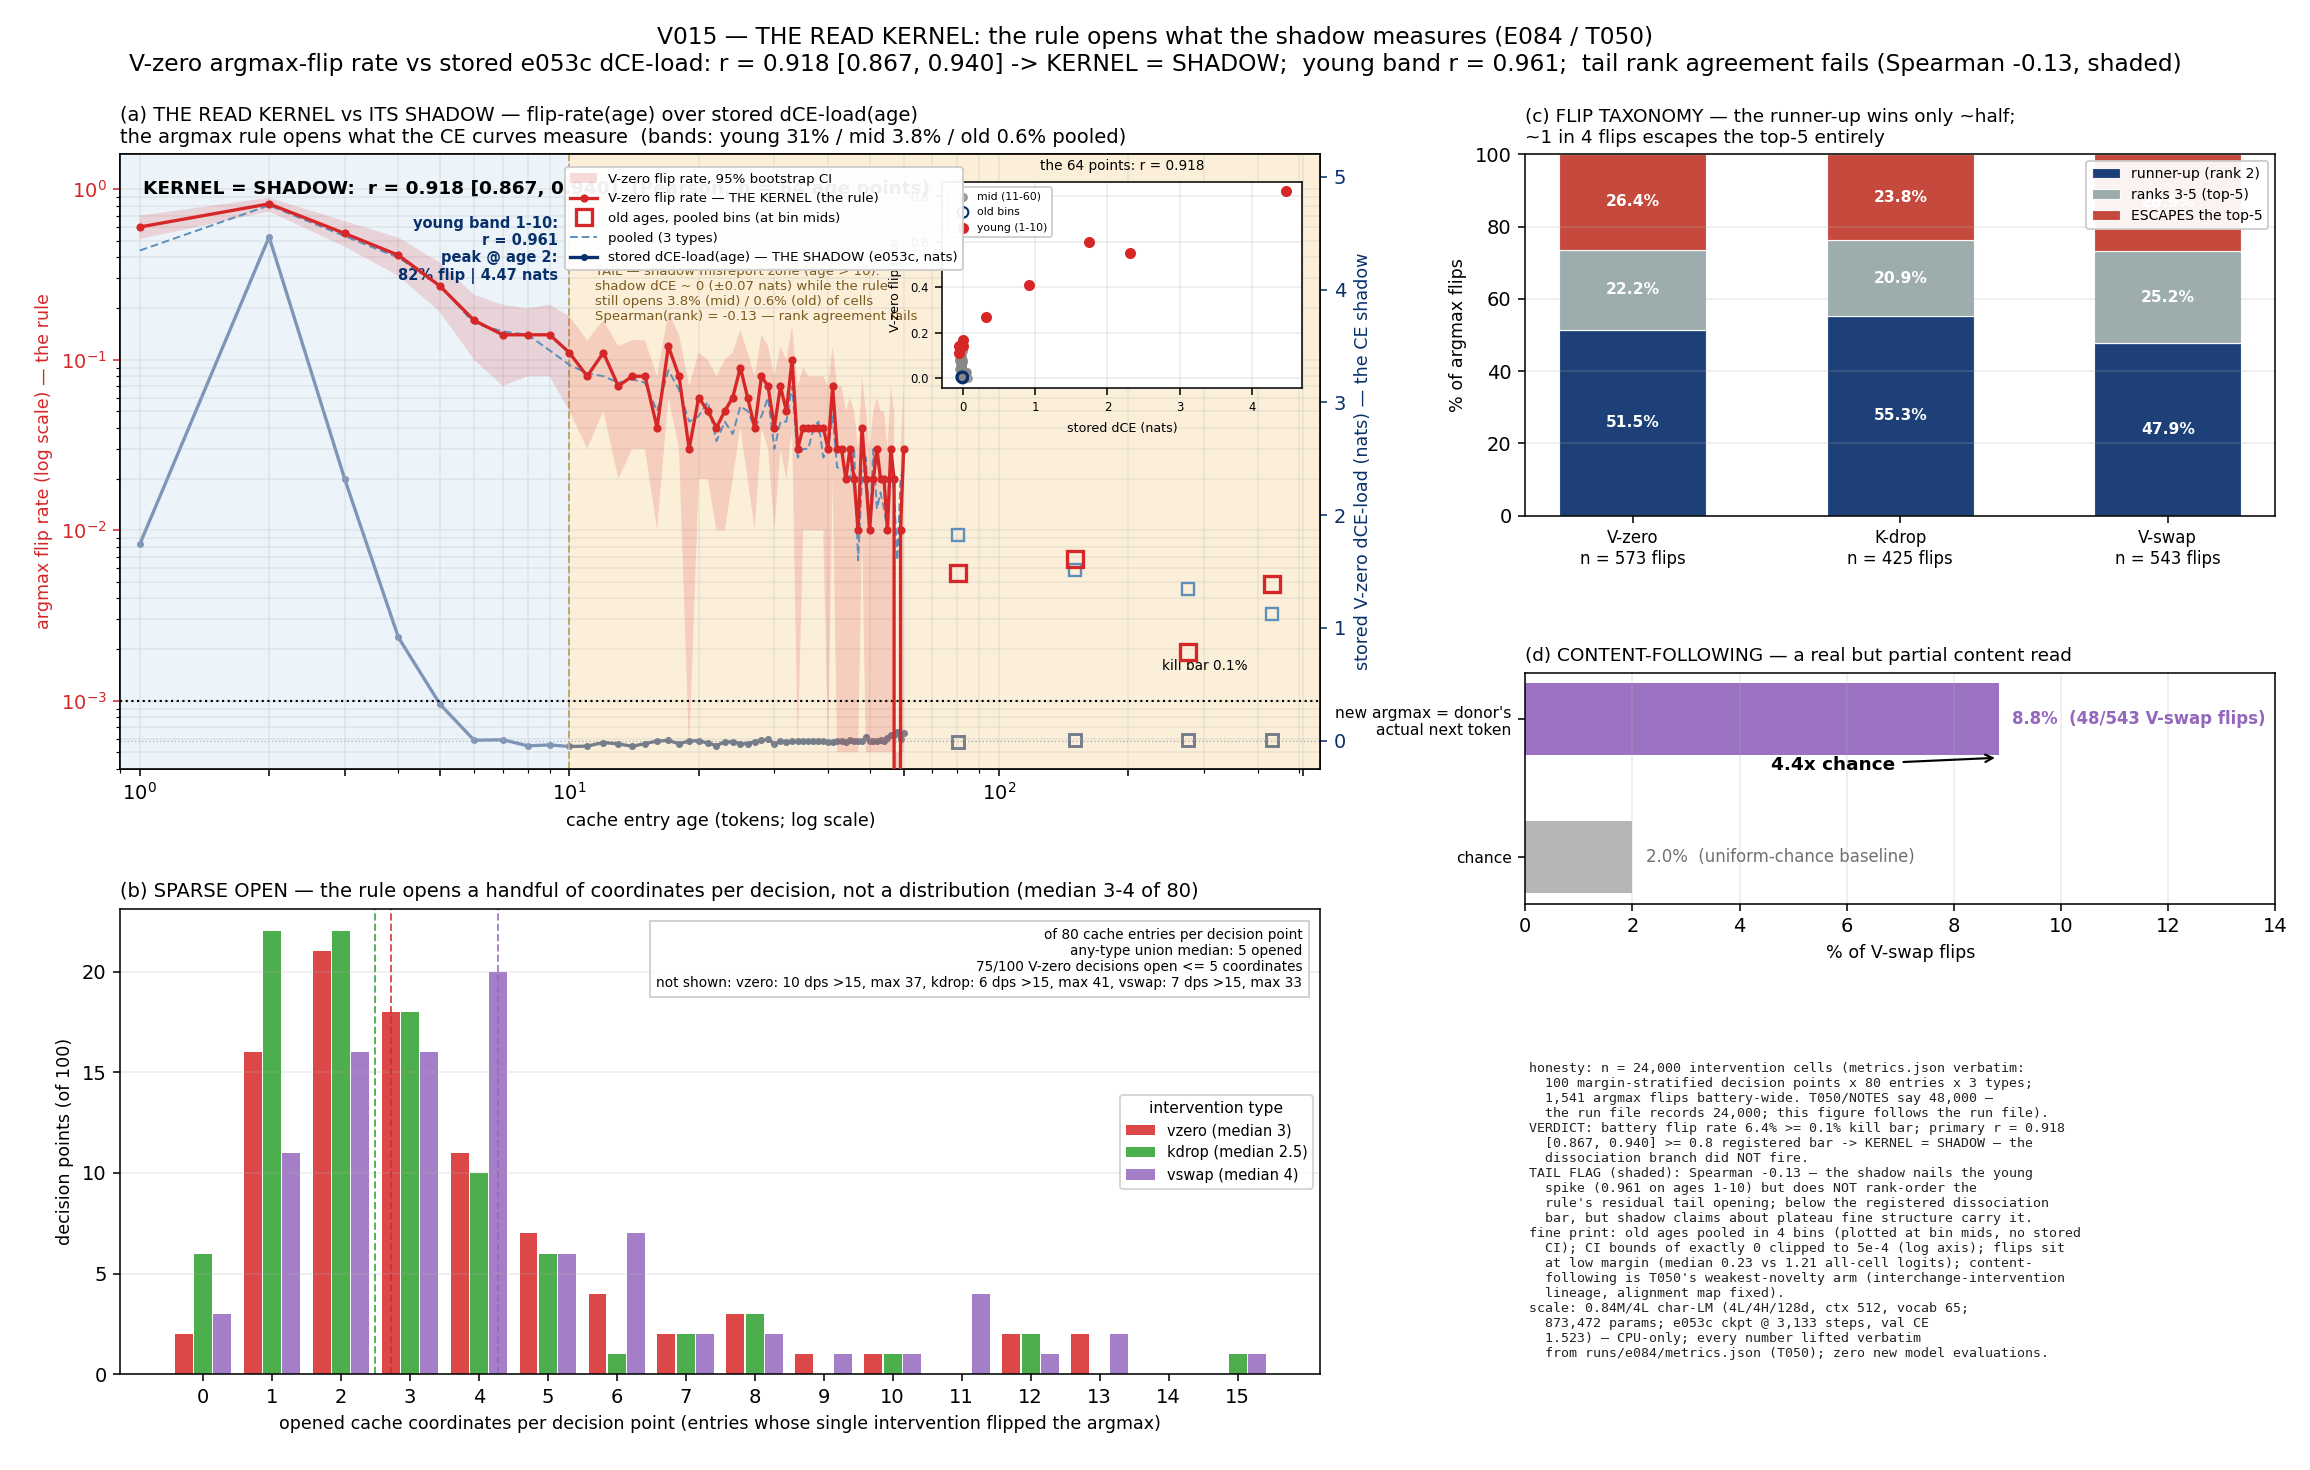
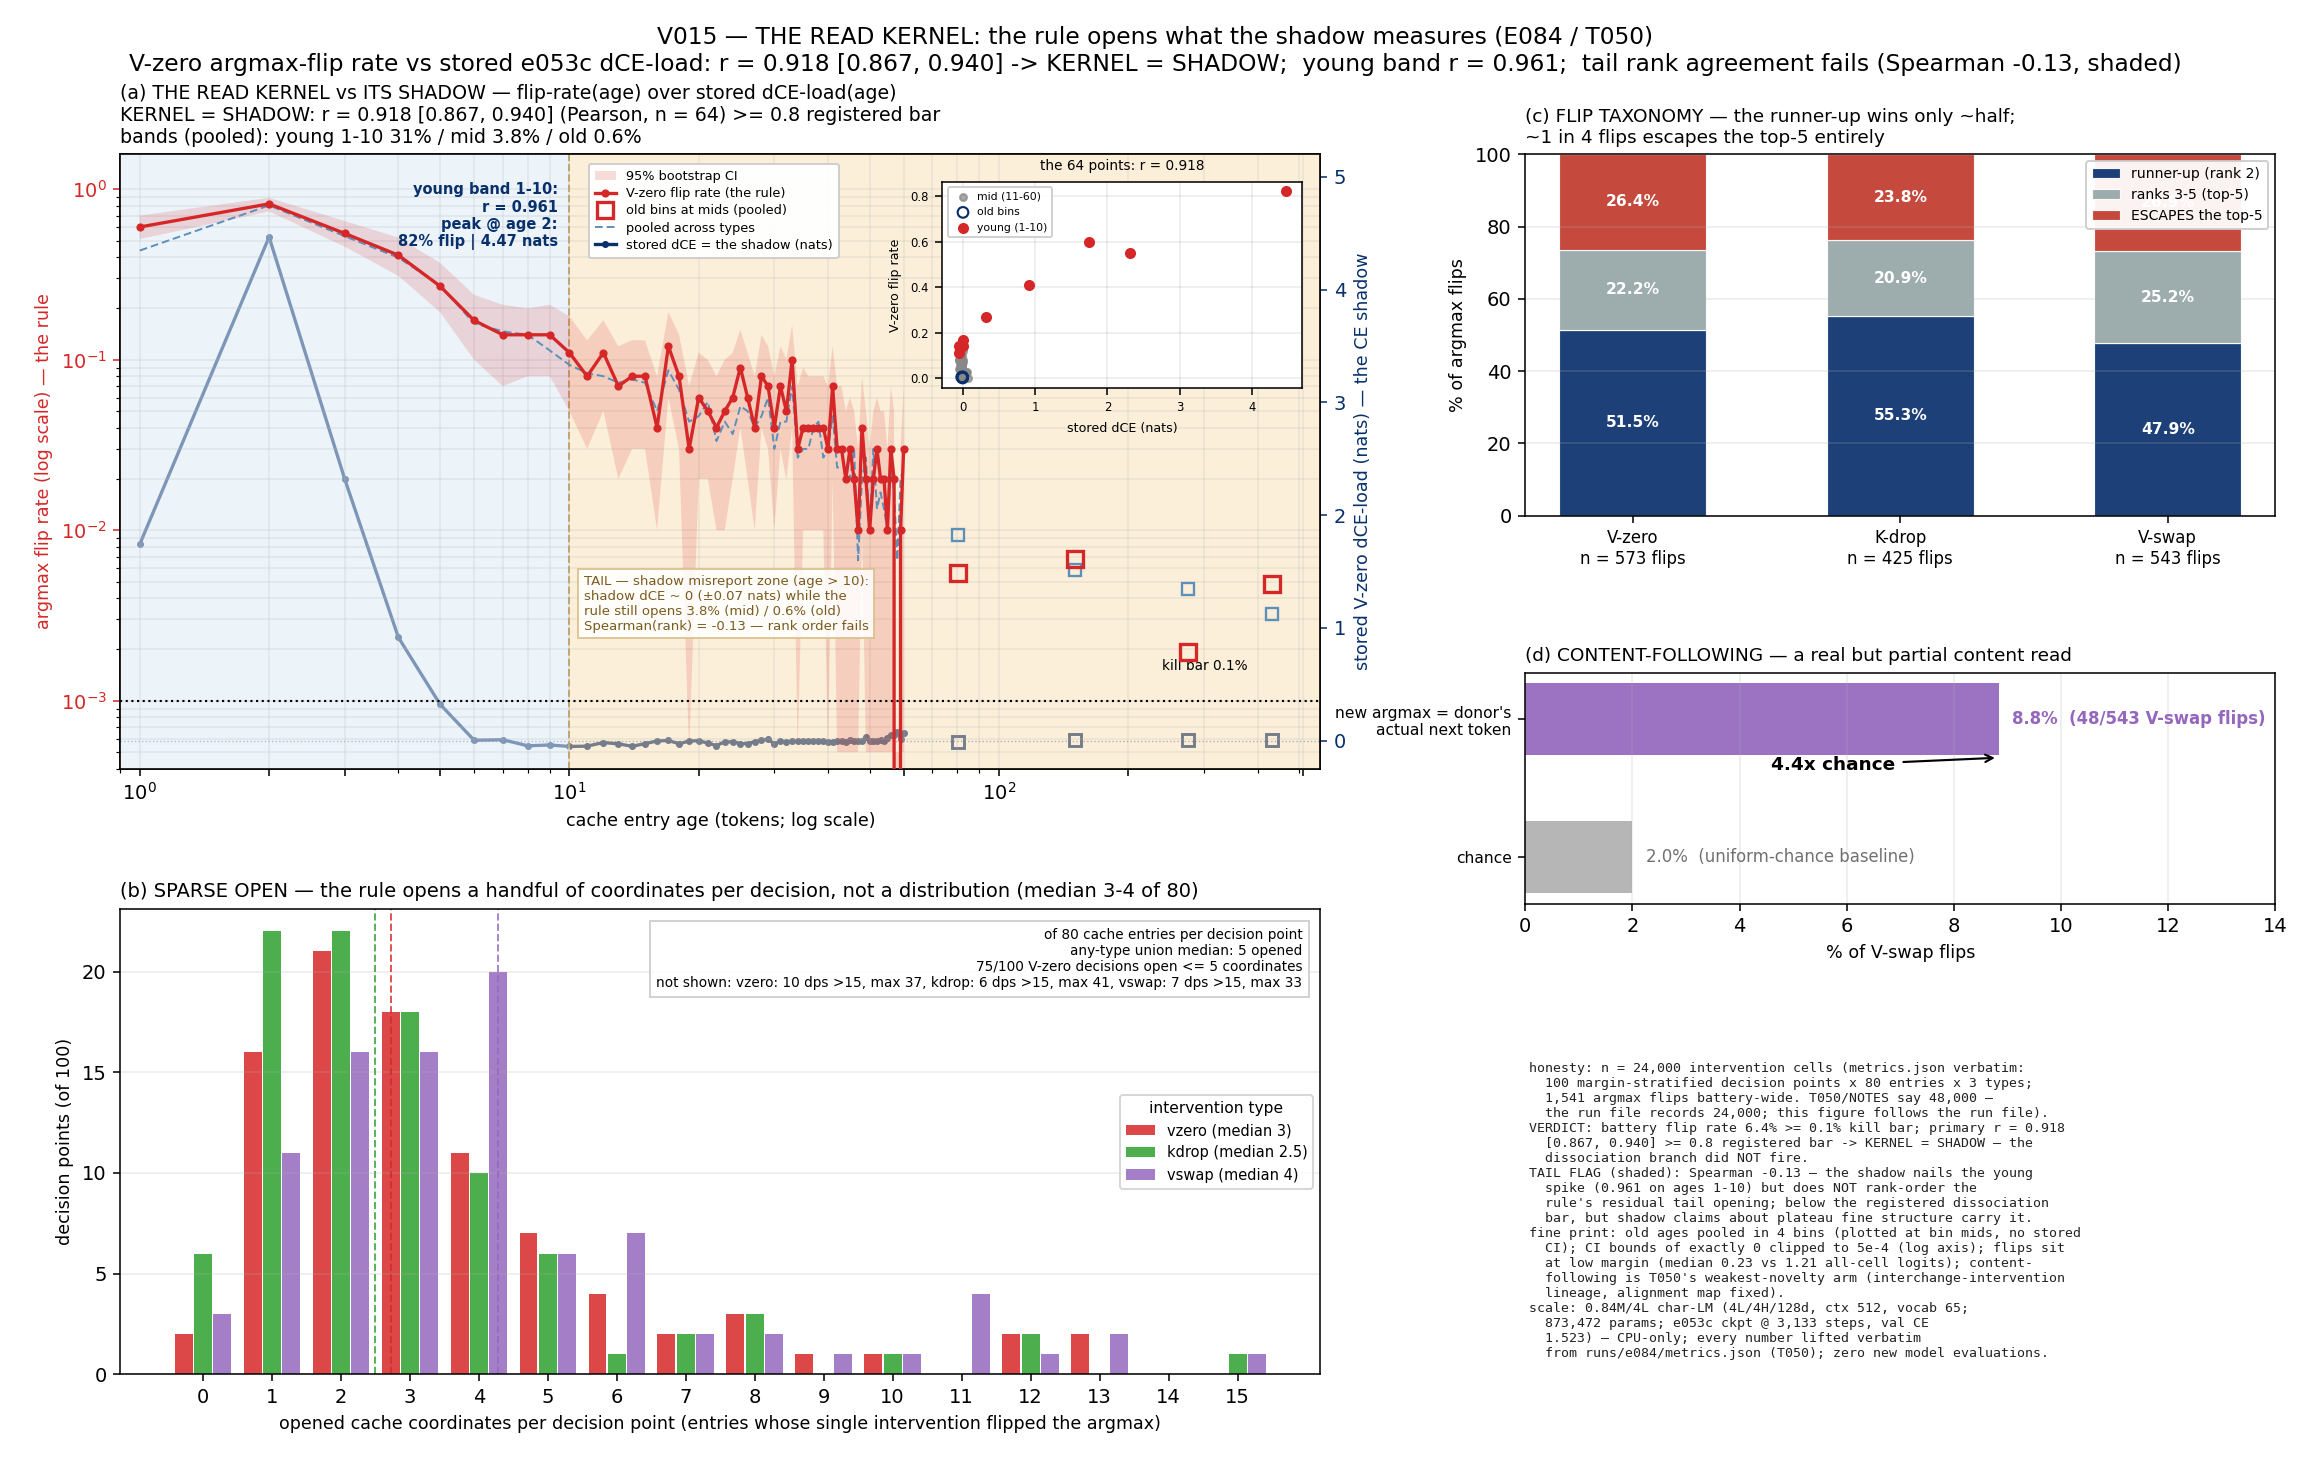
Cell-count correction (48,000 -> 24,000 after documented cut) in T050/NOTES; v015 final collision-fixed figure committed

Changed region(s): [[0.0312, 0.0612, 0.4364, 0.2143], [0.2494, 0.3673, 0.4052, 0.4592]]

diff --git a/lab/v015_read_kernel.py b/lab/v015_read_kernel.py
@@ -135,22 +135,24 @@ ax.tick_params(axis="y", colors=C_KERN)
 axs.tick_params(axis="y", colors=C_SHADOW)
 ax.grid(alpha=0.22, which="both")
 
-# annotations: verdict (top), young band + peak (left), tail flag (mid),
-# kill bar (bottom) — positioned to clear the curves, legend and inset
-ax.text(1.02, 1.13, f"KERNEL = SHADOW:  r = {R_PRIM:.3f} "
-        f"[{R_CI[0]:.3f}, {R_CI[1]:.3f}]  (Pearson, n = 64 age points)",
-        fontsize=9.5, color="black", fontweight="bold", va="top")
-ax.text(9.4, 0.70, f"young band 1-10:\nr = {R_YOUNG:.3f}\n"
+# annotations: young band + peak (upper left, clear of the spike markers),
+# tail flag (mid-left, below the legend, clear of the inset), kill bar
+ax.text(9.4, 1.10, f"young band 1-10:\nr = {R_YOUNG:.3f}\n"
         f"peak @ age 2:\n82% flip | 4.47 nats", fontsize=7.5,
         color=C_SHADOW, ha="right", va="top", fontweight="bold")
 ax.text(380, 1.45e-3, f"kill bar {KILL:.1%}", fontsize=7, color="k",
         ha="right", va="bottom")
-ax.text(11.5, 0.36, "TAIL — shadow misreport zone (age > 10):\n"
-        "shadow dCE ~ 0 (±0.07 nats) while the rule\n"
-        f"still opens {BANDS['mid_11_60']['pooled']:.1%} (mid) / "
-        f"{BANDS['old_61_511']['pooled']:.1%} (old) of cells\n"
-        f"Spearman(rank) = {RHO:.2f} — rank agreement fails",
-        fontsize=6.8, color="#7a5b1e", va="top")
+# tail flag: parked in the empty low band of the shaded region (below the
+# mid-curve markers, above the kill bar) so it annotates the tail at tail
+# height without covering any data
+ax.text(10.8, 0.0055, "TAIL — shadow misreport zone (age > 10):\n"
+        "shadow dCE ~ 0 (±0.07 nats) while the\n"
+        f"rule still opens {BANDS['mid_11_60']['pooled']:.1%} (mid) / "
+        f"{BANDS['old_61_511']['pooled']:.1%} (old)\n"
+        f"Spearman(rank) = {RHO:.2f} — rank order fails",
+        fontsize=6.8, color="#7a5b1e", va="top",
+        bbox=dict(facecolor="white", edgecolor="#d9c08a", alpha=0.88,
+                  pad=2.8))
 
 # inset: the 64 correlation points themselves — tight line (young) + flat
 # cloud at dCE~0 (tail): the r = 0.918 structure in one glance
@@ -169,17 +171,29 @@ axi.legend(fontsize=5.6, loc="upper left", framealpha=0.92,
            handletextpad=0.3, borderpad=0.4)
 axi.grid(alpha=0.25)
 
-# main-panel legend (composed: kernel + shadow live on twin axes)
+# main-panel legend (composed: kernel + shadow live on twin axes) — compact
+# labels, upper-middle, clear of the spike (left), the inset (right) and the
+# tail text (below)
 h1, l1 = ax.get_legend_handles_labels()
 h2, l2 = axs.get_legend_handles_labels()
-ax.legend(h1 + h2, l1 + l2, fontsize=6.9, loc="upper left",
-          bbox_to_anchor=(0.365, 0.99), framealpha=0.94)
+LEG_LBL = {"V-zero flip rate — THE KERNEL (the rule)": "V-zero flip rate (the rule)",
+           "V-zero flip rate, 95% bootstrap CI": "95% bootstrap CI",
+           "pooled (3 types)": "pooled across types",
+           "old ages, pooled bins (at bin mids)": "old bins at mids (pooled)",
+           "stored dCE-load(age) — THE SHADOW (e053c, nats)":
+               "stored dCE = the shadow (nats)"}
+h = h1 + h2
+l = [LEG_LBL.get(x, x) for x in l1 + l2]
+ax.legend(h, l, fontsize=6.6, loc="upper left",
+          bbox_to_anchor=(0.385, 0.995), framealpha=0.94,
+          handlelength=1.6, borderpad=0.5, labelspacing=0.32)
 ax.set_title("(a) THE READ KERNEL vs ITS SHADOW — flip-rate(age) over stored "
              "dCE-load(age)\n"
-             f"the argmax rule opens what the CE curves measure  "
-             f"(bands: young {BANDS['young_1_10']['pooled']:.0%} / mid "
-             f"{BANDS['mid_11_60']['pooled']:.1%} / old "
-             f"{BANDS['old_61_511']['pooled']:.1%} pooled)", fontsize=10,
+             f"KERNEL = SHADOW: r = {R_PRIM:.3f} [{R_CI[0]:.3f}, "
+             f"{R_CI[1]:.3f}] (Pearson, n = 64) >= 0.8 registered bar\n"
+             f"bands (pooled): young 1-10 {BANDS['young_1_10']['pooled']:.0%}"
+             f" / mid {BANDS['mid_11_60']['pooled']:.1%} / old "
+             f"{BANDS['old_61_511']['pooled']:.1%}", fontsize=9.8,
              loc="left")
 
 # ====================================================== (b) SPARSE-OPEN

diff --git a/THINKING.md b/THINKING.md
@@ -122,7 +122,7 @@ instrument-novelty (registered with e076).
 ## T050 — E084: the read kernel equals its shadow — the first direct read-policy measurement (2026-09-26 ~14:35Z)
 
 **Verdict: KERNEL = SHADOW.** r(flip-rate(age), dCE-load(age)) =
-0.918 [0.867, 0.940] over 48,000 intervention cells — the argmax
+0.918 [0.867, 0.940] over 24,000 intervention cells (200→100 decision-point cut documented) — the argmax
 rule opens what the CE curves measure. The registered dissociation
 branch did NOT fire: everything the lab's shadow instruments
 (per-position lesion dCE) claimed about cache utility is a faithful
